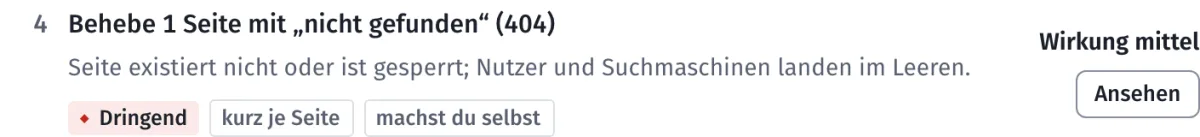
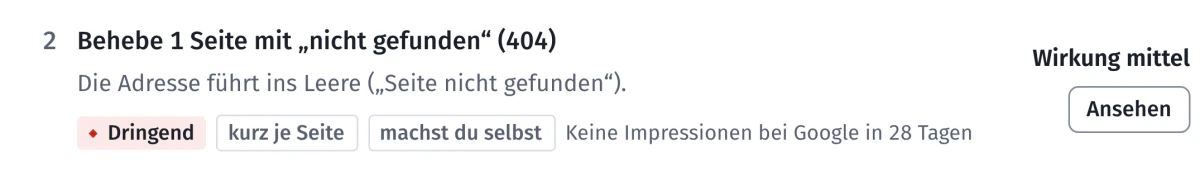
feat: mobile screenshot (state 64) and 404 task row re-shot from the 0.2.3 app

diff --git a/404.html b/404.html
@@ -28,7 +28,7 @@
   <div class="page-head">
     <h1 data-reveal>Diese Seite gibt es nicht.</h1>
     <figure class="shot shot--task" data-reveal style="--i:1">
-      <img src="/assets/img/aufgabe-404.webp" width="1200" height="137" alt="Aufgabe in Nextfix: Behebe 1 Seite mit „nicht gefunden“ (404), Dringend, kurz je Seite, Wirkung mittel">
+      <img src="/assets/img/aufgabe-404.webp" width="1200" height="171" alt="Aufgabe in Nextfix: Behebe 1 Seite mit „nicht gefunden“ (404), Dringend, kurz je Seite, Wirkung mittel">
     </figure>
     <p class="statement" data-reveal style="--i:2">So stünde das in Nextfix. Die Aufgabe liegt bei uns, für dich geht es hier weiter:</p>
   </div>
